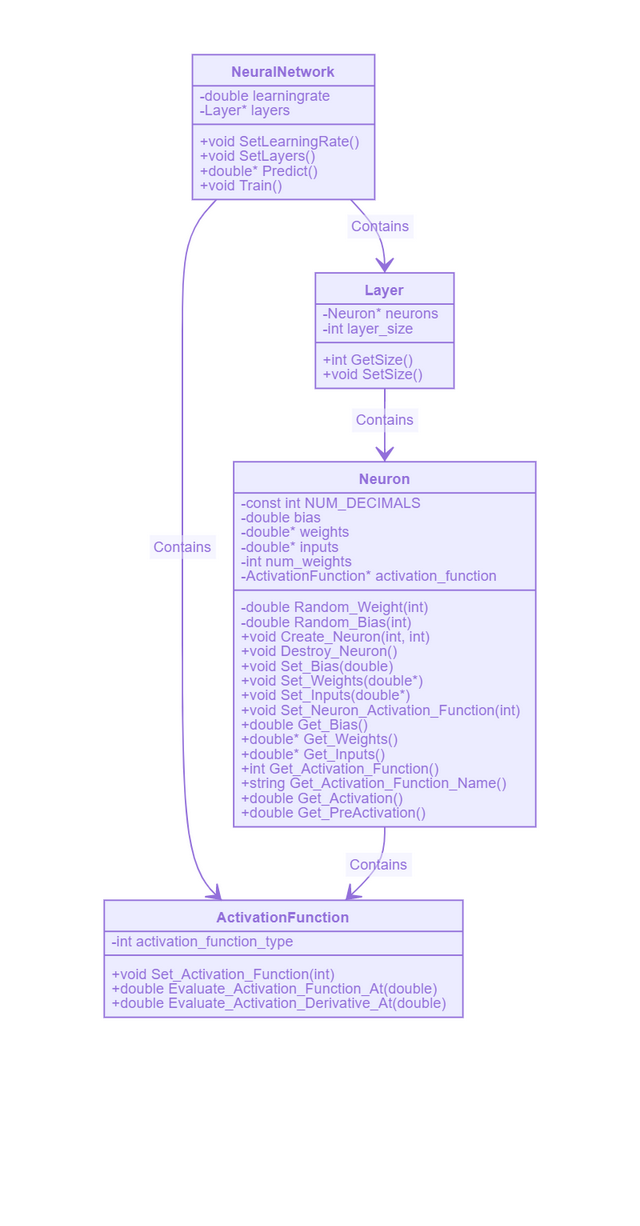
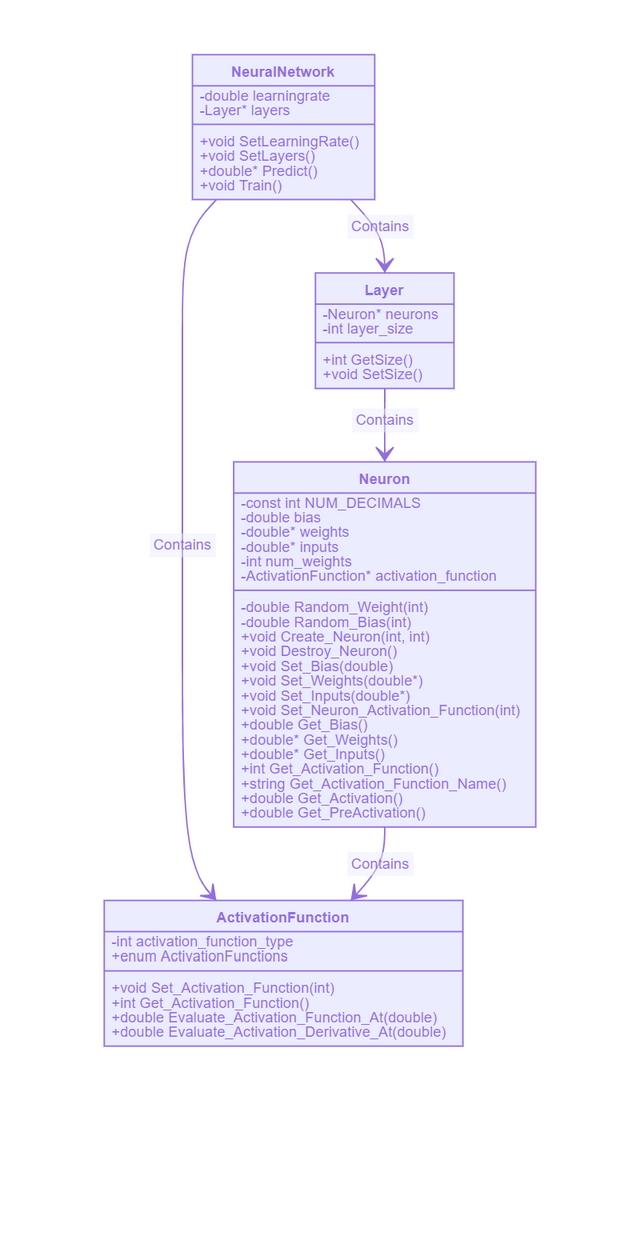
Updated Class Basics

Changed region(s): [[0.1562, 0.031, 0.8438, 0.8369], [0.25, 0.4339, 0.3438, 0.4649]]

diff --git a/Resources/Images/classBasicsNabla.md b/Resources/Images/classBasicsNabla.md
@@ -49,10 +49,12 @@
       
       
       class ActivationFunction{
-          -int activation_function_type
-          +void Set_Activation_Function(int)
-          +double Evaluate_Activation_Function_At(double)
-          +double Evaluate_Activation_Derivative_At(double)
+        -int activation_function_type
+        +enum ActivationFunctions
+        +void Set_Activation_Function(int)
+        +int Get_Activation_Function()
+        +double Evaluate_Activation_Function_At(double)
+        +double Evaluate_Activation_Derivative_At(double)
       }
       
 ```
